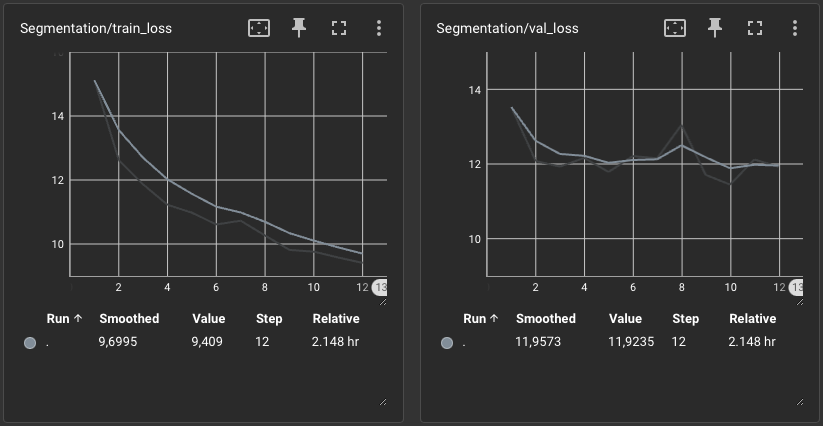
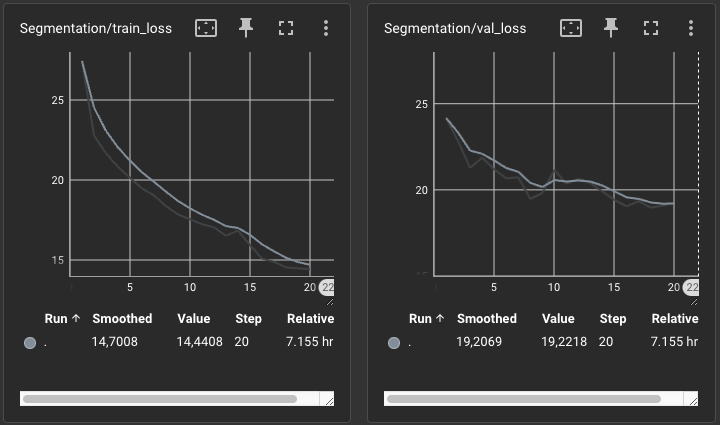
Updated results taco1 mask2former

diff --git a/scripts/test_mask2former_segmentation.py b/scripts/test_mask2former_segmentation.py
@@ -189,7 +189,7 @@ def test_one_epoch():
         #print(f"Pred_shape: {predictions.shape}")
         
         
-        for i in range(0, targets.shape[1]):
+        """for i in range(0, targets.shape[1]):
             mask_t = targets.squeeze(0)[i]
             mask_p = predictions.squeeze(0)[i]
             mask_img_t = Image.fromarray(mask_t.numpy() *100)
@@ -203,7 +203,7 @@ def test_one_epoch():
             plt.imshow(mask_img_p)  
             plt.axis('off')  # Hide the axis labels
             plt.title(f"prediction - {i}")    
-            plt.savefig(f"testing/{batch_idx}_{i}")
+            plt.savefig(f"testing/{batch_idx}_{i}")"""
         
         
         #batch["original_images"][0].show()

diff --git a/app/config.py b/app/config.py
@@ -1,4 +1,4 @@
 # INPUT DATA TO RUN THE API
 MODEL_NAME = "MASK2FORMER" #MASK2FORMER or MASK_R-CNN
 MASK_RCNN_CHECKPOINT = "checkpoint_epoch_7_mask_rcnn_taco1.pt" #"checkpoint_epoch_30_maskrcnn_taco5.pt" #"checkpoint_epoch_16_2025_2_28_10_40.pt"#"checkpoint_epoch_8_2025_2_18_21_53.pt"
-MASK2FORMER_CHECKPOINT = "checkpoint_epoch_1_2025_3_18_21_31.pt"#"checkpoint_epoch_18_mask2former_taco1.pt"#"checkpoint_epoch_14_mask2former_taco28.pt" #"checkpoint_mask2former_cloud.pt"
+MASK2FORMER_CHECKPOINT = "checkpoint_epoch_20_mask2former_taco1_new.pt"#"checkpoint_epoch_18_mask2former_taco1.pt"#"checkpoint_epoch_14_mask2former_taco28.pt" #"checkpoint_mask2former_cloud.pt"

diff --git a/README.md b/README.md
@@ -470,14 +470,14 @@ Training of the Mask2former using the taco1 dataset in the task of instance segm
 - **Outputs:**
 Train of the Mask2former in taco1 for 12 epochs:
 ![taco1_mask2former](readme_images/train_mask2former_taco1.png)
-Best model is found at epoch 10 and metrics are computed.
+Best model is found at epoch 20. Despite loss bottomed at epoch 18 valuation metrics (mIoU) kept going down and therefore epoch 20 looks still a bit more promissing. Maybe further learning could be conducted to improve results.
 
 - **Metrics**:
 
 Categories | mIoU
 --- | ---
-Background | 0.9860629439353943
-Waste | 0.5686376094818115
+Background | 0.991115391254425
+Waste | 0.6704526543617249
 
 ##### Taco5
 - **Description**:
